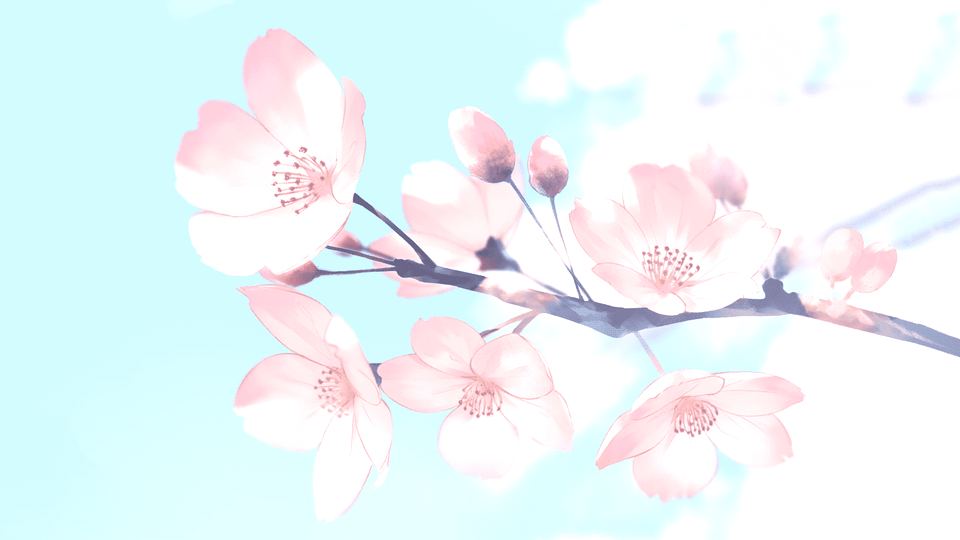
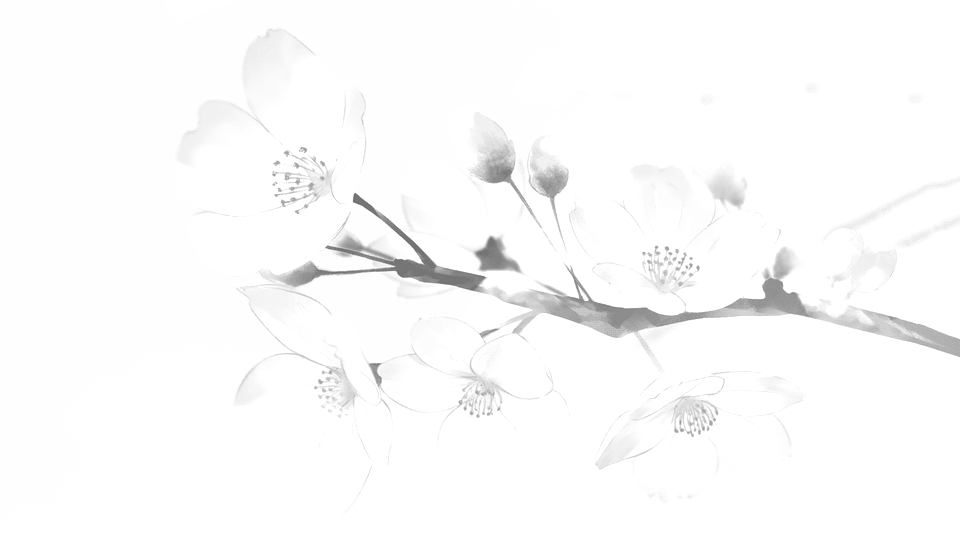
feat: add grayscaling option

diff --git a/img_log_transformation.m b/img_log_transformation.m
@@ -14,9 +14,14 @@ c_coef = input("What is the c value? ");
 [rows, cols, num_channels] = size(img);
 fprintf("[INFO] An image size [%d, %d] is inputted!\n", rows, cols);
 
+is_grayscaled = input("Do you want the image to be grayscaled? (0/1) ");
 % Create placeholder for new image
-if (num_channels == 1)
+if (num_channels == 1 | is_grayscaled)
     disp("[PROCESS] Processing grayscale image!");
+    if (not(num_channels == 1))
+        % If full colored but want to be grayscaled
+        img = rgb2gray(img);
+    end
     is_gray = true;
     result_img = zeros(rows, cols, 1, 'uint8');
 else
@@ -49,5 +54,10 @@ disp("[DISPLAYING] Here is displayed the result image!");
 imshow(result_img);
 
 % Write image
-img_out_name = strcat("image_log_transformation_", img_name);
+if is_grayscaled == 1
+    suffix = "_grayscaled";
+else 
+    suffix = ""; 
+end
+img_out_name = strcat("image_log_transformation_", img_name, suffix);
 write_image(result_img, img_out_name)

diff --git a/img_power_transformation.m b/img_power_transformation.m
@@ -15,9 +15,14 @@ n = input("What is the n value? ");
 [rows, cols, num_channels] = size(img);
 fprintf("[INFO] An image size [%d, %d] is inputted!\n", rows, cols);
 
+is_grayscaled = input("Do you want the image to be grayscaled? (0/1) ");
 % Create placeholder for new image
-if (num_channels == 1)
+if (num_channels == 1 | is_grayscaled)
     disp("[PROCESS] Processing grayscale image!");
+    if (not(num_channels == 1))
+        % If full colored but want to be grayscaled
+        img = rgb2gray(img);
+    end
     is_gray = true;
     result_img = zeros(rows, cols, 1, 'uint8');
 else
@@ -50,5 +55,10 @@ disp("[DISPLAYING] Here is displayed the result image!");
 imshow(result_img);
 
 % Write image
-img_out_name = strcat("image_power_transformation_", img_name);
+if is_grayscaled == 1
+    suffix = "_grayscaled";
+else 
+    suffix = ""; 
+end
+img_out_name = strcat("image_power_transformation_", img_name, suffix);
 write_image(result_img, img_out_name)

diff --git a/img_brightening.m b/img_brightening.m
@@ -15,11 +15,14 @@ b = input("What is the b value? ");
 [rows, cols, num_channels] = size(img);
 fprintf("[INFO] An image size [%d, %d] is inputted!\n", rows, cols);
 
-size(img)
-
+is_grayscaled = input("Do you want the image to be grayscaled? (0/1) ");
 % Create placeholder for new image
-if (num_channels == 1)
+if (num_channels == 1 | is_grayscaled)
     disp("[PROCESS] Processing grayscale image!");
+    if (not(num_channels == 1))
+        % If full colored but want to be grayscaled
+        img = rgb2gray(img);
+    end
     is_gray = true;
     result_img = zeros(rows, cols, 1, 'uint8');
 else
@@ -50,5 +53,10 @@ disp("[DISPLAYING] Here is displayed the result image");
 imshow(result_img);
 
 % Write image
-img_out_name = strcat("image_brightening_", img_name);
+if is_grayscaled == 1
+    suffix = "_grayscaled";
+else 
+    suffix = ""; 
+end
+img_out_name = strcat("image_brightening_", img_name, suffix);
 write_image(result_img, img_out_name)

diff --git a/img_negative.m b/img_negative.m
@@ -11,9 +11,14 @@ imshow(img);
 [rows, cols, num_channels] = size(img);
 fprintf("[INFO] An image size [%d, %d] is inputted!\n", rows, cols);
 
+is_grayscaled = input("Do you want the image to be grayscaled? (0/1) ");
 % Create placeholder for new image
-if (num_channels == 1)
+if (num_channels == 1 | is_grayscaled)
     disp("[PROCESS] Processing grayscale image!");
+    if (not(num_channels == 1))
+        % If full colored but want to be grayscaled
+        img = rgb2gray(img);
+    end
     is_gray = true;
     result_img = zeros(rows, cols, 1, 'uint8');
 else
@@ -46,5 +51,10 @@ disp("[DISPLAYING] Here is displayed the result image!");
 imshow(result_img);
 
 % Write image
-img_out_name = strcat("image_negative_", img_name);
+if is_grayscaled == 1
+    suffix = "_grayscaled";
+else 
+    suffix = ""; 
+end
+img_out_name = strcat("image_negative_", img_name, suffix);
 write_image(result_img, img_out_name)
